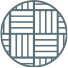
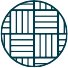
ok

diff --git a/index.html b/index.html
@@ -116,7 +116,7 @@
                             <div class="col-xs-3 text-center">
                                 <div class="service-box">
                                     <img src="./img/portfolio/services/electrical.png">
-                                    <h3>Electrical</h3>
+                                    <h3>Electric and Lighting</h3>
                                 </div>
                             </div>
                             <div class="col-xs-3 text-center">
@@ -135,8 +135,9 @@
                         <div class="row">
                             <div class="col-xs-3 text-center">
                                 <div class="service-box">
-                                    <img src="./img/portfolio/services/carpentry.png">
-                                    <h3>Carpentry</h3>
+                                    <img src="./img/portfolio/services/flooring.png">
+                                    <h3>Flooring and Tiling</h3>
+                                    <p class="text-muted"></p>
                                 </div>
                             </div>
                             <div class="col-xs-3 text-center">
@@ -147,9 +148,8 @@
                             </div>
                             <div class="col-xs-3 text-center">
                                 <div class="service-box">
-                                    <img src="./img/portfolio/services/flooring.png">
-                                    <h3>Flooring and Tiling</h3>
-                                    <p class="text-muted"></p>
+                                    <img src="./img/portfolio/services/carpentry.png">
+                                    <h3>Carpentry</h3>
                                 </div>
                             </div>
                             <div class="col-xs-3 text-center">
@@ -180,9 +180,14 @@
                                     <p class="text-muted"></p>
                                 </div>
                             </div>
+                            <div class="col-xs-3 text-center">
+                                <div class="service-box">
+                                    <img src="./img/portfolio/services/acoustic.png">
+                                    <h3>Acoustic Ceiling</h3>
+                                    <p class="text-muted"></p>
+                                </div>
+                            </div>
                         </div>
-
-
                     </div>
                 </div>
             </div>
@@ -324,7 +329,7 @@
                 </div>
                 <div class="col-xs-4">
                     <a href="img/portfolio/hero/scaffold.jpeg" class="portfolio-box">
-                        <img src="img/portfolio/hero/scaffold.jpeg" class="img-responsive" alt="">
+                        <img src="img/portfolio/hero/lighting.jpeg" class="img-responsive" alt="">
                         <div class="portfolio-box-caption">
                             <div class="portfolio-box-caption-content">
                                 <div class="project-category text-faded">
@@ -370,7 +375,7 @@
                     <h5><b>Client:</b> New York City Economic Development Corporation</h5>
                     <h5><b>Date:</b> Spring 2017 </h5>
                     <ul>
-                        <li>Project's General Contractor with work consisting of demolition, electric, plumbing, sprinklers, carpentry, VCT tiles and painting </li>
+                        <li>Project's General Contractor with work consisting of demolition, electric, plumbing, sprinklers, carpentry, lighting, acoustic ceiling, VCT tiles and painting </li>
                         <li>Worked directly with Hunter Roberts Construction Group, which served as the project’s Construction Manager </li>
                         <li>The project was split into two phases so that the clinic could remain active throughout the project while we renovated half of the floor at a time</li>
                         <li>This is an active project with a Fall 2017 completion date</li>
@@ -385,7 +390,7 @@
                     <h5><b>Date:</b> YTD 2017 </h5>
                     <ul>
                         <li>Completed multiple Tenant Fit-outs and White Boxes for The Bruckner Building, located at 2417 Third Avenue Bronx, NY </li>
-                        <li>The projects included demolition, plastering, painting, flooring, plumbing, electric, and carpentry</li>
+                        <li>The projects included demolition, plastering, painting, flooring, plumbing, electric, lighting, acoustic ceiling, and carpentry</li>
                         <li>Consistently met the client’s tight deadlines and successfully executed multiple simultaneous projects</li>
                     </ul>
                 </div>
@@ -397,7 +402,7 @@
                     <h5><b>Client:</b> NYC Health and Hospitals</h5>
                     <h5><b>Date:</b> Spring 2016 </h5>
                     <ul>
-                        <li>Project's General Contractor with work consisting of demolition, electric, sprinklers, HVAC, carpentry, carpet tiles and painting </li>
+                        <li>Project's General Contractor with work consisting of demolition, electric, sprinklers, HVAC, carpentry, carpet tiles, lighting, acoustic ceiling, and painting </li>
                         <li>Project was split into two phases with the client's employees occupying half the floor while the other half was renovated </li>
                         <li>Construction zone was successfully isolated throughout the project and no complaints were received</li>
                         <li>Proposed a 12-week project timeline, however upon the client's request agreed to a 9-week crash schedule (i.e., after-hour and weekend work). Ultimately completed the project in 7-weeks, allowing the staff to reoccupy the entire renovated space</li>
